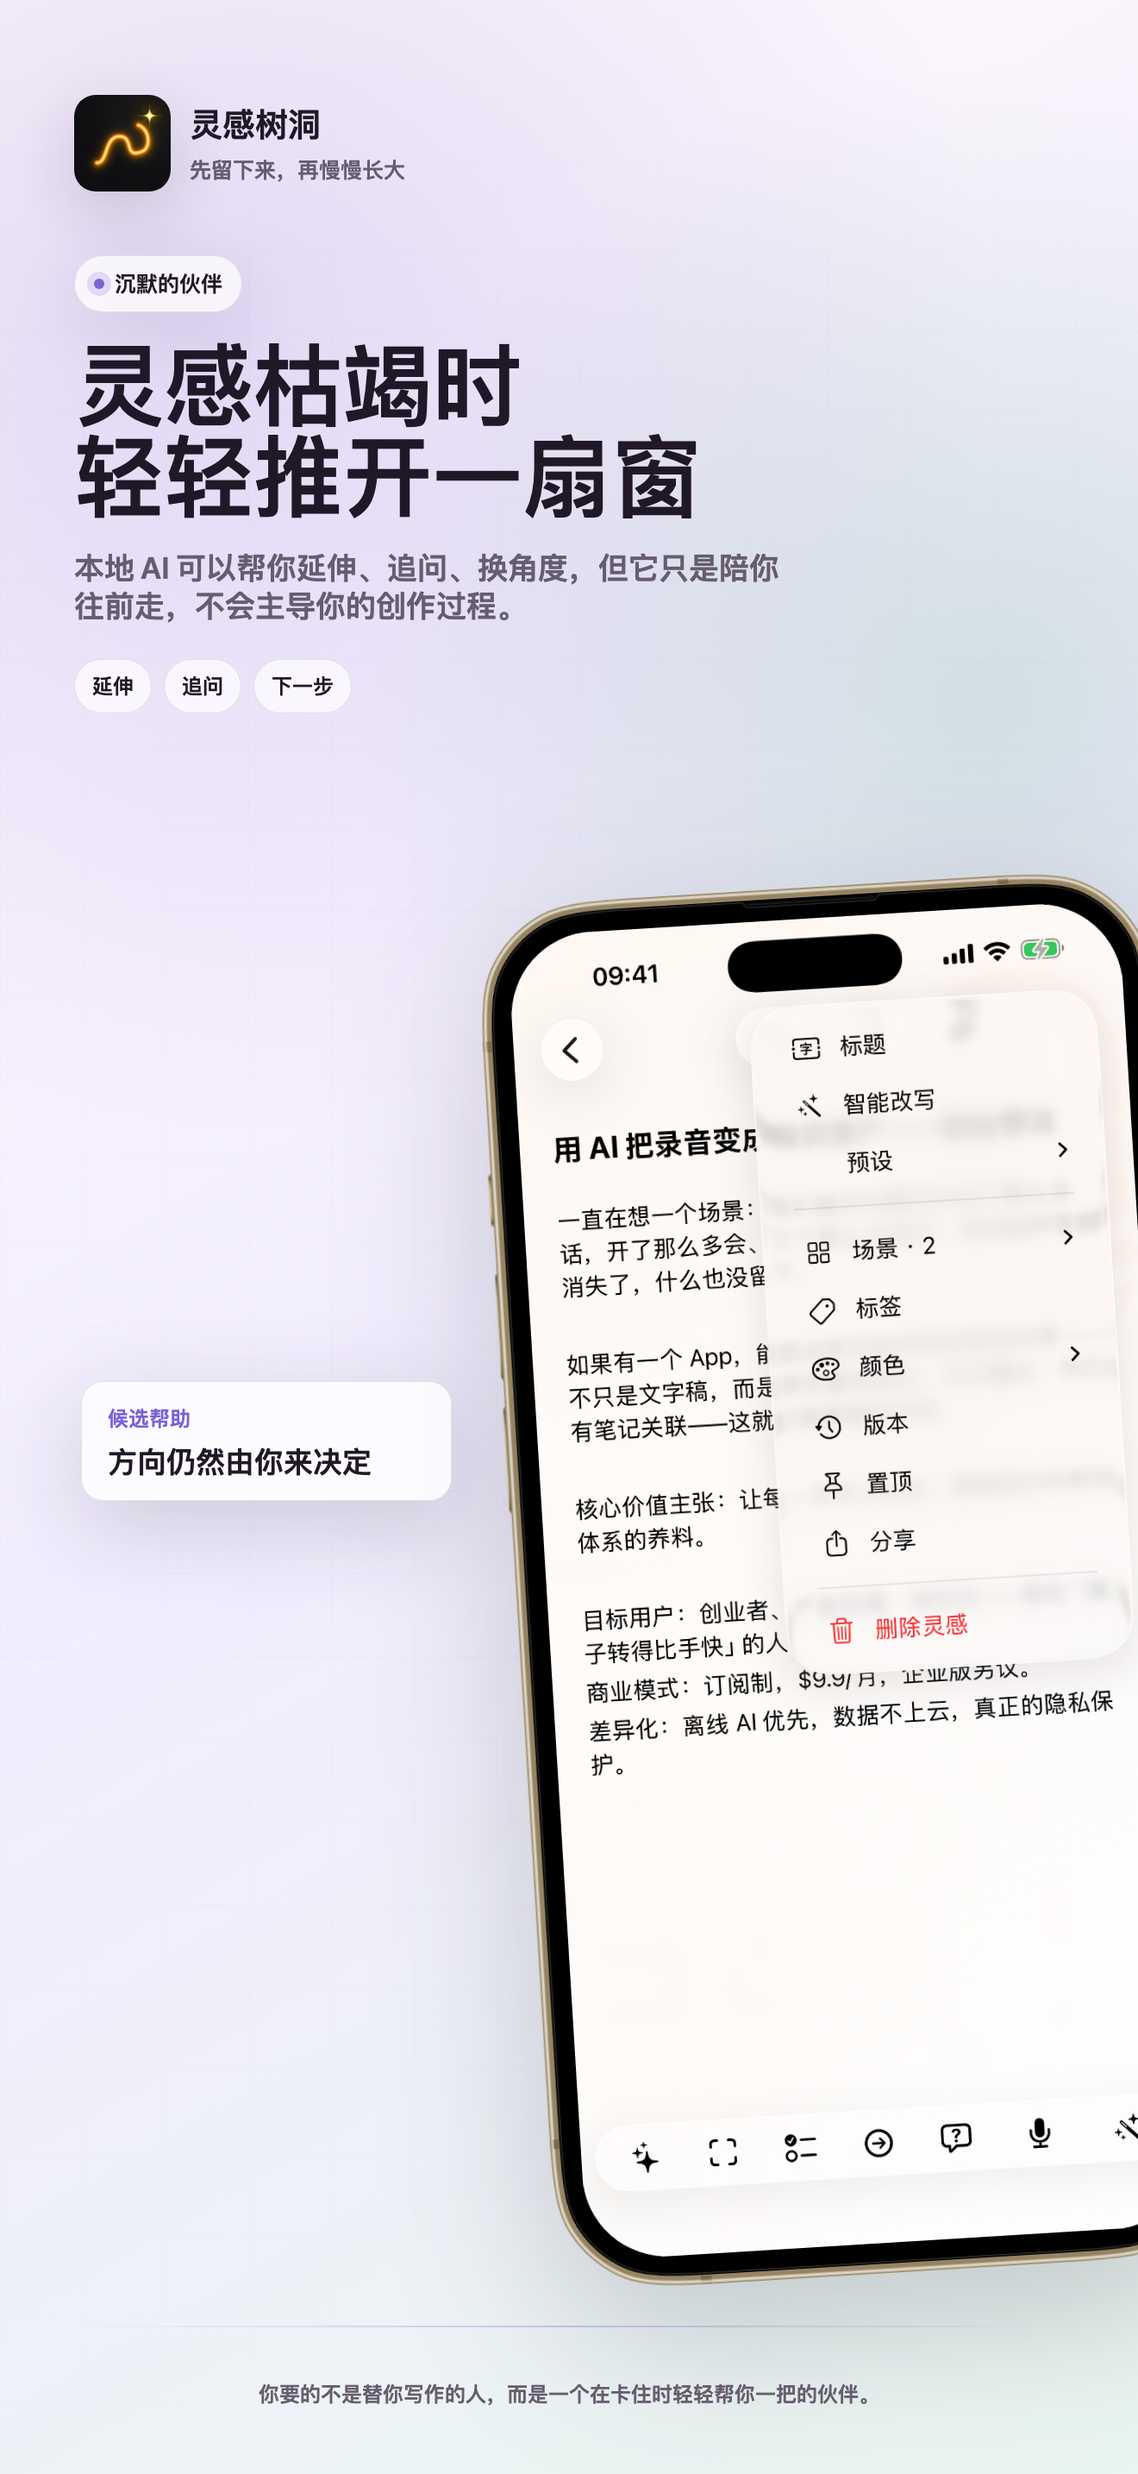
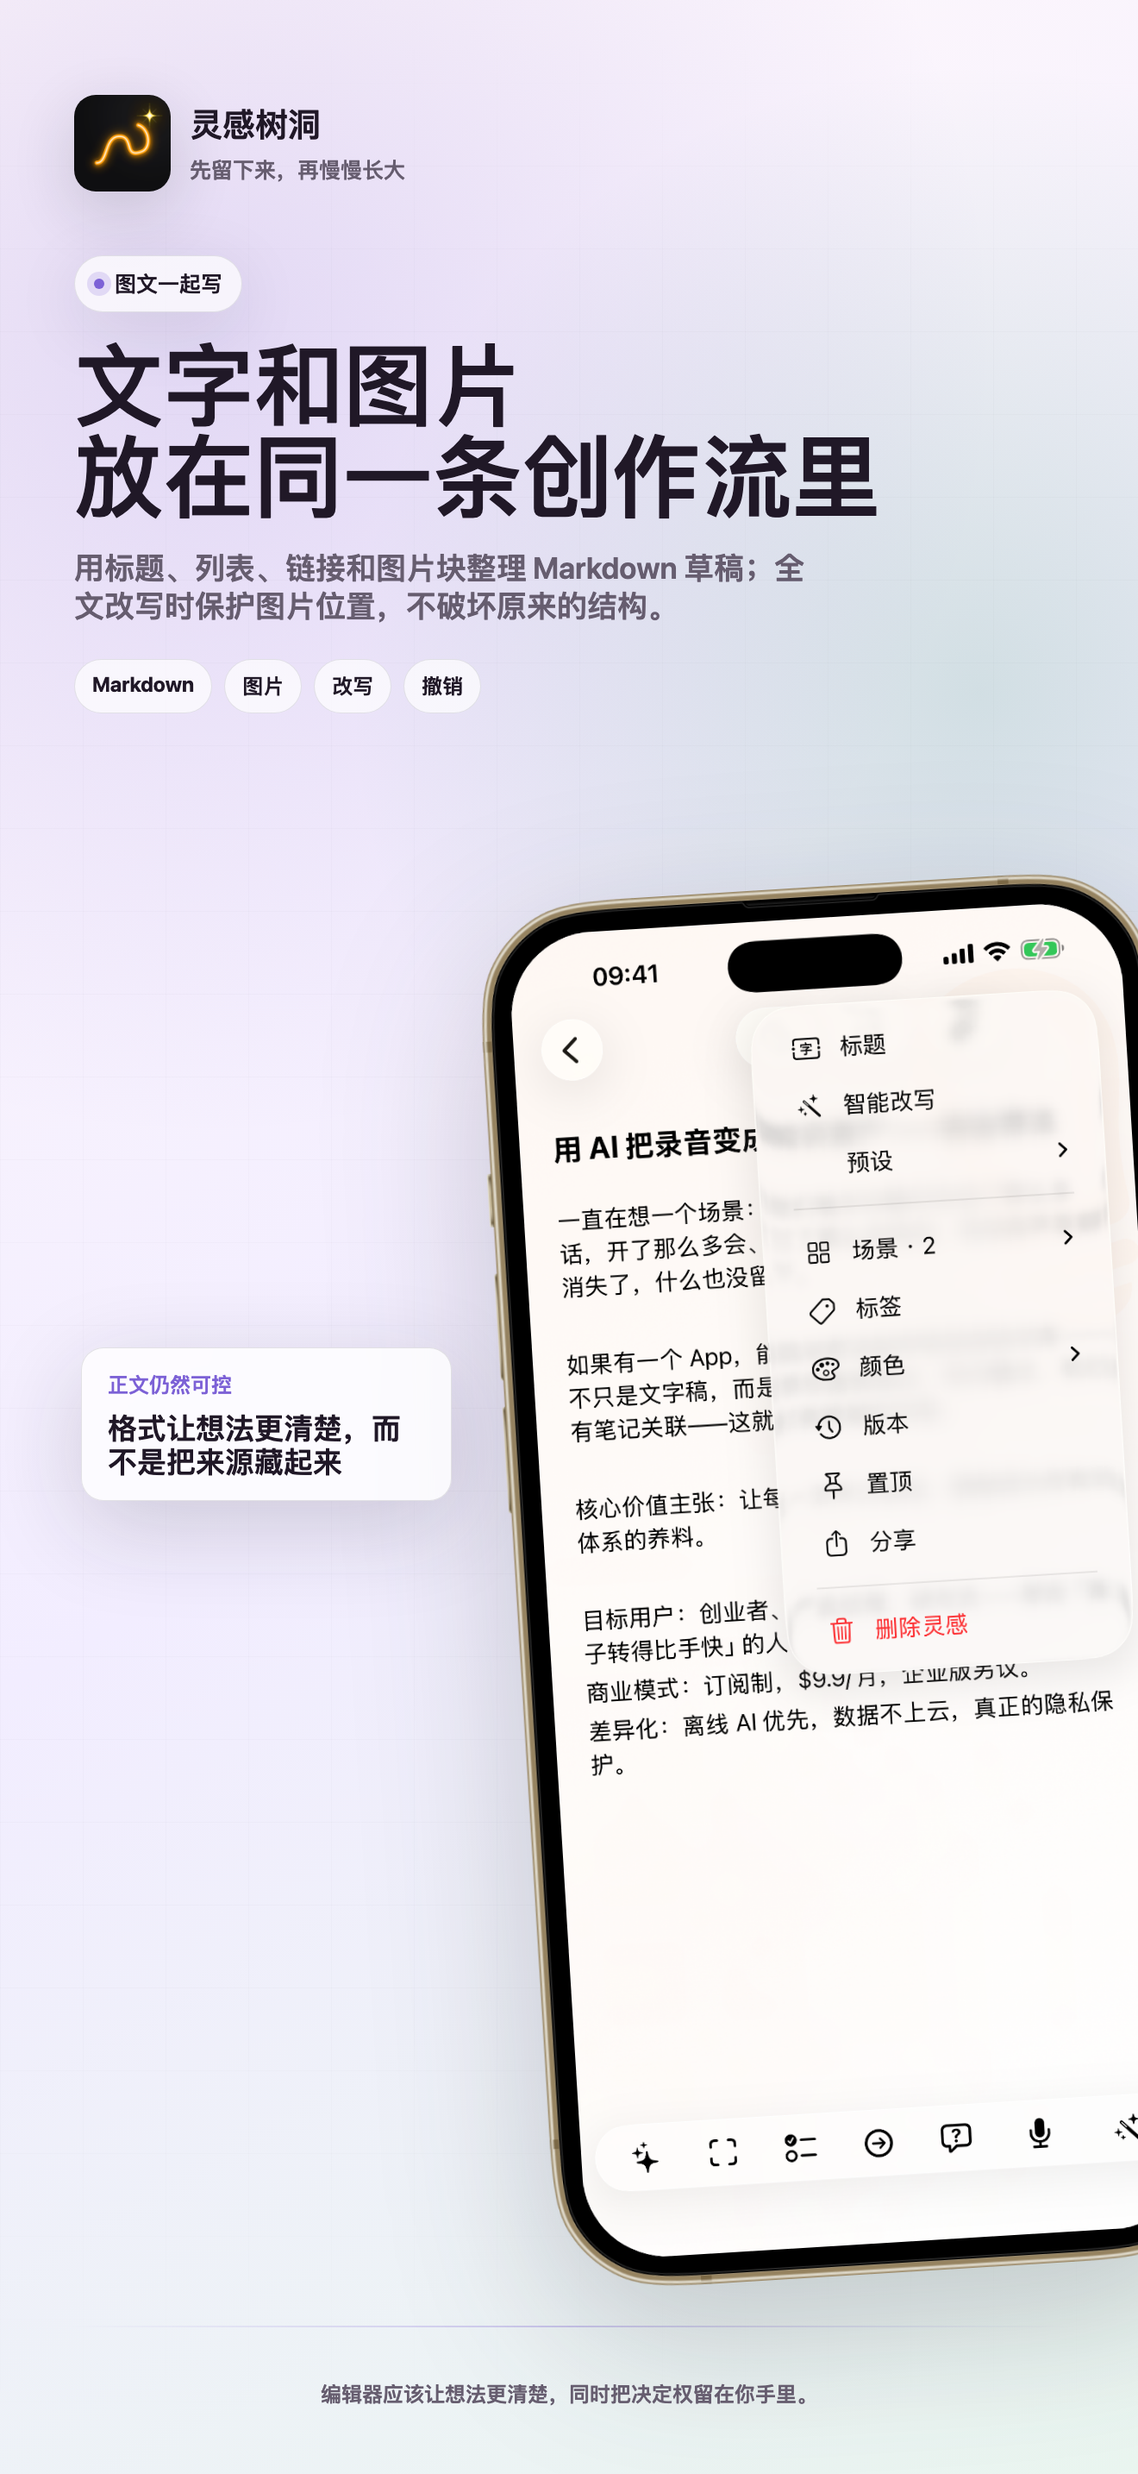
feat(site): refresh MVP33 product story and image materials

diff --git a/js/main.js b/js/main.js
@@ -11,28 +11,34 @@ const translations = {
       p2: "Start with less pressure, then let structure arrive when it helps."
     },
     feature1: {
-      title: "Focus on the thought<br>not the admin",
-      p1: "Titles, tags, categories, and lightweight structure help you return later without turning capture into clerical work.",
-      p2: "Organization should sit quietly around the content, not compete with it."
+      title: "Keep the image<br>then make it yours",
+      p1: "Preview, rotate, restore, and turn a useful subject into a sticker. Original images, derivatives, and AI analysis stay linked to the draft.",
+      p2: "The material stays close to the thought instead of becoming another file to lose."
     },
     feature2: {
-      title: "When you feel stuck<br>open a window",
-      p1: "Local AI can extend, question, reframe, and suggest the next step without taking over your writing.",
-      m1: "<strong>Extend:</strong> Keep the idea moving when it starts to stall.",
-      m2: "<strong>Question:</strong> Ask for a sharper angle or a missing constraint.",
-      m3: "<strong>Reframe:</strong> Try another perspective without losing the core thought.",
-      m4: "<strong>Next step:</strong> Turn a vague idea into one concrete move.",
-      m5: "<strong>Control:</strong> AI stays a quiet companion until you decide what to keep."
+      title: "Text and images<br>in the same flow",
+      p1: "Shape a Markdown draft with headings, lists, links, and inline images. Rewrite the words while the image blocks stay protected.",
+      m1: "<strong>Markdown:</strong> Keep the persisted draft source clear and portable.",
+      m2: "<strong>Images:</strong> Place original or derived material where the idea needs it.",
+      m3: "<strong>Rewrite:</strong> Improve the words without losing image structure.",
+      m4: "<strong>Undo:</strong> Keep editing changes reversible while the draft evolves.",
+      m5: "<strong>Control:</strong> Formatting helps the idea without taking it away from you."
     },
     feature3: {
-      title: "Take it anywhere<br>and stay private",
-      p1: "After the model is downloaded, drafts and local AI inference stay on your iPhone instead of being handed to a cloud model.",
-      p2: "No signal required. Privacy feels real when the work can continue offline."
+      title: "From rough thought<br>to readable piece",
+      p1: "Export image-rich drafts as polished PDF or MHTML documents with consistent branding, dates, rounded images, and sticker glow.",
+      p2: "Sharing should carry the shape of the thought, not just a block of raw text."
     },
     feature4: {
-      title: "Writing, work, life,<br>stray ideas too",
-      p1: "<strong>One private workspace:</strong> Keep articles, product notes, cooking sparks, plans, and unfinished thoughts together.",
-      p2: "<strong>Your voice stays yours:</strong> The final direction and wording always remain in your hands."
+      title: "Take it anywhere<br>and stay private",
+      p1: "<strong>Fully local:</strong> After the model is downloaded, drafts and local AI processing stay on your iPhone.",
+      p2: "<strong>Your voice stays yours:</strong> Your images, ideas, and final decisions remain under your control."
+    },
+    materials: {
+      title: "Keep the source, shape the idea",
+      p1: "A real InspirationDraft image can stay beside the thought, then become a focused sticker when the draft needs it.",
+      original: "Original image material · Duolingo × Luckin Coffee",
+      sticker: "Derived subject sticker · ready to place in a draft"
     },
     privacy: {
       title1: "Private local AI",
@@ -56,28 +62,34 @@ const translations = {
       p2: "先减轻压力，再让结构慢慢跟上。"
     },
     feature1: {
-      title: "只管内容<br>整理交给它",
-      p1: "标题、标签、分类和轻量结构应该帮你以后更容易找回来，而不是把记录当下变成填表。",
-      p2: "整理应该轻轻落在内容周围，而不是抢走内容的位置。"
+      title: "先把图片留下<br>再慢慢变成你的",
+      p1: "预览、旋转、还原，并把主体生成贴纸。原图、派生图和 AI 分析结果始终和草稿保持关联。",
+      p2: "素材应该靠近想法，而不是变成另一堆容易丢失的文件。"
     },
     feature2: {
-      title: "灵感枯竭时<br>轻轻推开一扇窗",
-      p1: "本地 AI 可以帮你延伸、追问、换角度、给下一步，但不会接管你的创作过程。",
-      m1: "<strong>延伸：</strong>在想法卡住时继续往前走一点。",
-      m2: "<strong>追问：</strong>补一层更锋利的问题或限制条件。",
-      m3: "<strong>换角度：</strong>试试看另一个看法，而不是重写你。",
-      m4: "<strong>下一步：</strong>把模糊念头落成一个可执行动作。",
-      m5: "<strong>掌控：</strong>AI 只是候选帮助，真正方向始终由你决定。"
+      title: "文字和图片<br>放在同一条创作流里",
+      p1: "用标题、列表、链接和图片块整理 Markdown 草稿；全文改写时保护图片位置，不破坏原来的结构。",
+      m1: "<strong>Markdown：</strong>让正文真源保持清楚、可携带。",
+      m2: "<strong>图片：</strong>把原图或派生素材放在想法真正需要的位置。",
+      m3: "<strong>改写：</strong>优化文字，但不丢失图片结构。",
+      m4: "<strong>撤销：</strong>让编辑变化保持可逆。",
+      m5: "<strong>掌控：</strong>格式让想法更清楚，同时把决定权留在你手里。"
     },
     feature3: {
-      title: "走到世界尽头<br>灵感依然在线",
-      p1: "下载模型后，内容和端侧 AI 推理都留在你的 iPhone 上，不必把想法交给云端大模型。",
-      p2: "没有网络也能继续。当离线仍能工作时，隐私才真的成立。"
+      title: "从粗糙念头<br>到可以阅读的作品",
+      p1: "把图文草稿导出为带有一致 Branding、日期、圆角图片和 Sticker Glow 的 PDF 或 MHTML。",
+      p2: "分享应该带走想法的形状，而不只是导出一段原始文字。"
     },
     feature4: {
-      title: "写作、工作、生活、奇想<br>都能放进来",
-      p1: "<strong>一个私密空间：</strong>文章、产品想法、下厨灵感、日常计划和零散念头，都可以放在一起慢慢长大。",
-      p2: "<strong>你的声音还在：</strong>最终的表达和判断始终属于你。"
+      title: "走到世界尽头<br>灵感依然在线",
+      p1: "<strong>完全本地：</strong>下载模型后，文字、图片上下文和端侧 AI 推理都留在 iPhone 上。",
+      p2: "<strong>你的声音还在：</strong>图片、想法和最终判断始终由你掌控。"
+    },
+    materials: {
+      title: "保留原始素材，再塑造想法",
+      p1: "真实的灵感树洞图片可以和想法一起留下；需要时，再把主体变成适合放进草稿的贴纸。",
+      original: "原始图片素材 · 多邻国 × 瑞幸",
+      sticker: "派生主体贴纸 · 可以放回草稿继续创作"
     },
     privacy: {
       title1: "完全本地，真正私密",

diff --git a/index.html b/index.html
@@ -43,6 +43,16 @@
     .feature-visual { flex: 1; display: flex; justify-content: center; }
     .feature-visual img.screenshot { width: 100%; height: 100%; }
 
+    .materials-section { margin: 0 0 8rem; }
+    .materials-header { max-width: 680px; margin-bottom: 2rem; }
+    .materials-header h2 { font-size: 2rem; margin: 0 0 1rem; }
+    .materials-header p { color: rgba(255,255,255,0.7); font-size: 1.1rem; }
+    .materials-gallery { display: grid; grid-template-columns: 1.15fr 0.85fr; gap: 1.5rem; align-items: stretch; }
+    .material-card { margin: 0; padding: 0.75rem; border-radius: 24px; background: rgba(255,255,255,0.05); border: 1px solid rgba(255,255,255,0.08); }
+    .material-card img { display: block; width: 100%; height: 100%; min-height: 280px; object-fit: cover; border-radius: 18px; }
+    .material-card.sticker img { object-fit: contain; background: radial-gradient(circle, rgba(168,255,120,0.18), rgba(0,0,0,0.2) 70%); }
+    .material-card figcaption { padding: 0.8rem 0.25rem 0.15rem; color: rgba(255,255,255,0.7); font-size: 0.9rem; }
+
     .methods-list { list-style: none; padding: 0; margin-top: 1.5rem; }
     .methods-list li { margin-bottom: 1rem; padding-left: 1.5rem; position: relative; color: rgba(255,255,255,0.8); }
     .methods-list li::before { content: "•"; color: #a8ff78; position: absolute; left: 0; font-weight: bold; }
@@ -58,6 +68,8 @@
         .hero, .feature-row, .feature-row:nth-child(even) { flex-direction: column; text-align: center; gap: 3rem; margin-bottom: 5rem; }
         .hero h1 { font-size: 2.5rem; }
         .methods-list li { text-align: left; }
+        .materials-gallery { grid-template-columns: 1fr; }
+        .material-card img { min-height: 220px; }
     }
   </style>
 </head>
@@ -89,7 +101,25 @@
       </div>
     </section>
 
-    <!-- Feature 1: Home Capture -->
+    <!-- Real device material example -->
+    <section class="materials-section">
+      <div class="materials-header">
+        <h2 class="text-gradient" data-i18n="materials.title">Keep the source, shape the idea</h2>
+        <p data-i18n="materials.p1">A real InspirationDraft image can stay beside the thought, then become a focused sticker when the draft needs it.</p>
+      </div>
+      <div class="materials-gallery">
+        <figure class="material-card">
+          <img src="assets/image-materials/duolingo-luckin-original.jpg" alt="Duolingo and Luckin Coffee collaboration image material from InspirationDraft" loading="lazy">
+          <figcaption data-i18n="materials.original">Original image material · Duolingo × Luckin Coffee</figcaption>
+        </figure>
+        <figure class="material-card sticker">
+          <img src="assets/image-materials/duolingo-luckin-sticker.png" alt="Derived sticker from a Duolingo and Luckin Coffee image" loading="lazy">
+          <figcaption data-i18n="materials.sticker">Derived subject sticker · ready to place in a draft</figcaption>
+        </figure>
+      </div>
+    </section>
+
+    <!-- Feature 1: Image Materials -->
     <section class="feature-row">
       <div class="feature-text">
         <h2 data-i18n="feature1.title">Focus on the thought<br>not the admin</h2>
@@ -103,7 +133,7 @@
       </div>
     </section>
 
-    <!-- Feature 2: Expression Scenarios -->
+    <!-- Feature 2: Markdown Image Editing -->
     <section class="feature-row">
       <div class="feature-text">
         <h2 data-i18n="feature2.title">When you feel stuck<br>open a window</h2>
@@ -123,7 +153,7 @@
       </div>
     </section>
 
-    <!-- Feature 3: Version Timeline -->
+    <!-- Feature 3: Rich Export -->
     <section class="feature-row">
       <div class="feature-text">
         <h2 data-i18n="feature3.title">Take it anywhere<br>and stay private</h2>

diff --git a/legal/privacy.html b/legal/privacy.html
@@ -19,7 +19,7 @@
     <a href="../index.html" style="text-decoration:none;">&larr; Back to Home</a>
   </div>
   <h1>Privacy Policy</h1>
-  <p><strong>Last Updated: May 25, 2026</strong></p>
+  <p><strong>Last Updated: July 20, 2026</strong></p>
 
   <h2>1. We don't want your data.</h2>
   <p>InspirationDraft ("the App") is built on the foundation of privacy. We do not collect, transmit, or store your drafts, notes, or ideas on our servers. All draft content is stored locally on your device and optionally synced via iCloud — accessible only to you. We do not operate user accounts or any backend data service.</p>
@@ -30,6 +30,7 @@
   <ul>
     <li>The draft text you are working on</li>
     <li>Any context materials or images you have explicitly attached to the draft</li>
+    <li>Derived image assets such as subject stickers and image-analysis results associated with those attachments</li>
     <li>The selected thinking method or rewrite instruction</li>
   </ul>
   <p><strong>Only what you explicitly submit is sent.</strong> InspirationDraft does not intermediate, log, or retain these AI requests. The third-party provider you configure handles this data under their own privacy policy; you are responsible for reviewing and accepting their terms before configuring their endpoint.</p>
@@ -39,7 +40,7 @@
   <p>The model download requires an internet connection, may be large, and is stored on your device until you remove it or delete the app. The download host or content delivery network may process standard network request information (such as IP address, request time, user agent, and file version) as needed to deliver the model and maintain security and reliability.</p>
 
   <h2>4. iCloud Sync</h2>
-  <p>If you have iCloud Drive enabled, your drafts and version history are synced via Apple's iCloud infrastructure. This data is stored in your personal iCloud account and is not accessible to us. Your iCloud data is governed by Apple's Privacy Policy.</p>
+  <p>If you have iCloud Drive enabled, your drafts, version history, attached images, derived stickers, and associated image-analysis data may sync via Apple's iCloud infrastructure. This data is stored in your personal iCloud account and is not accessible to us. Your iCloud data is governed by Apple's Privacy Policy.</p>
 
   <h2>5. Paid App Purchase</h2>
   <p>InspirationDraft is currently sold as a paid upfront app. This version does not provide in-app purchases, auto-renewable subscriptions, or extra Pro unlocks. Payment is processed entirely by Apple through the App Store. We do not receive or store your payment details.</p>

diff --git a/legal/terms.html b/legal/terms.html
@@ -18,7 +18,7 @@
     <a href="../index.html" style="text-decoration:none;">&larr; Back to Home</a>
   </div>
   <h1>Terms of Use</h1>
-  <p><strong>Last Updated: May 25, 2026</strong></p>
+  <p><strong>Last Updated: July 20, 2026</strong></p>
 
   <h2>Paid App Purchase</h2>
   <p>InspirationDraft is currently offered as a paid upfront app through the App Store. This version does not provide in-app purchases, auto-renewable subscriptions, or extra Pro unlocks. The current purchase price is displayed by Apple on the App Store before download, and payment is processed by Apple through your Apple ID. Any refund requests or purchase issues are handled under Apple's App Store policies.</p>
@@ -31,7 +31,7 @@
   <p>The app itself, and all the trademarks, copyright, database rights, and other intellectual property rights related to it, still belong to us.</p>
 
   <h2>No Liability for Data Loss</h2>
-  <p>InspirationDraft stores your drafts locally and optionally syncs them via iCloud. We are not liable for any data loss resulting from device wiping, accidental deletions, iCloud sync conflicts, or OS issues. Please ensure iCloud Drive is enabled to maintain a backup of your drafts.</p>
+  <p>InspirationDraft stores your drafts and associated image attachments locally and optionally syncs them via iCloud. We are not liable for any data loss resulting from device wiping, accidental deletions, iCloud sync conflicts, or OS issues. Please ensure iCloud Drive is enabled to maintain a backup of your drafts and attachments.</p>
 
   <h2>Third-Party AI Endpoints</h2>
   <p>You may elect to configure custom AI endpoints (e.g. OpenAI-compatible APIs). We do not control these services and you use such third-party APIs at your own risk. You are responsible for reviewing and accepting the terms of service of any endpoint you configure, and for ensuring that any draft content you submit complies with those terms.</p>

diff --git a/support.html b/support.html
@@ -31,7 +31,10 @@
   </ul>
 
   <h2>Privacy and Data</h2>
-  <p>Your drafts are stored locally and synced via iCloud (visible only to you). InspirationDraft does not collect, transmit, or store your notes on our servers. When using Local AI, all inference runs on your device. If you configure a third-party AI endpoint, only the text you explicitly submit is sent to the endpoint you chose.</p>
+  <p>Your drafts, attached images, derived stickers, and image-analysis results are stored locally and may sync through your private iCloud account. InspirationDraft does not operate a backend draft store. When using Local AI, inference runs on your device. If you configure a third-party AI endpoint, only the content you explicitly submit is sent to the endpoint you chose.</p>
+
+  <h2>Images, editing, and export</h2>
+  <p>You can preview, rotate, restore, and turn image subjects into stickers inside a draft. Markdown image blocks remain linked to their stored attachments while you edit. Image-rich drafts can be exported as PDF or MHTML with document branding, dates, rounded images, and sticker glow.</p>
 
   <h2>Version Timeline</h2>
   <p>Each time you save a draft, InspirationDraft can create a version snapshot. To restore an older version, open the draft, tap the clock icon, and select any previous snapshot. Versions are stored locally on your device and in iCloud.</p>
